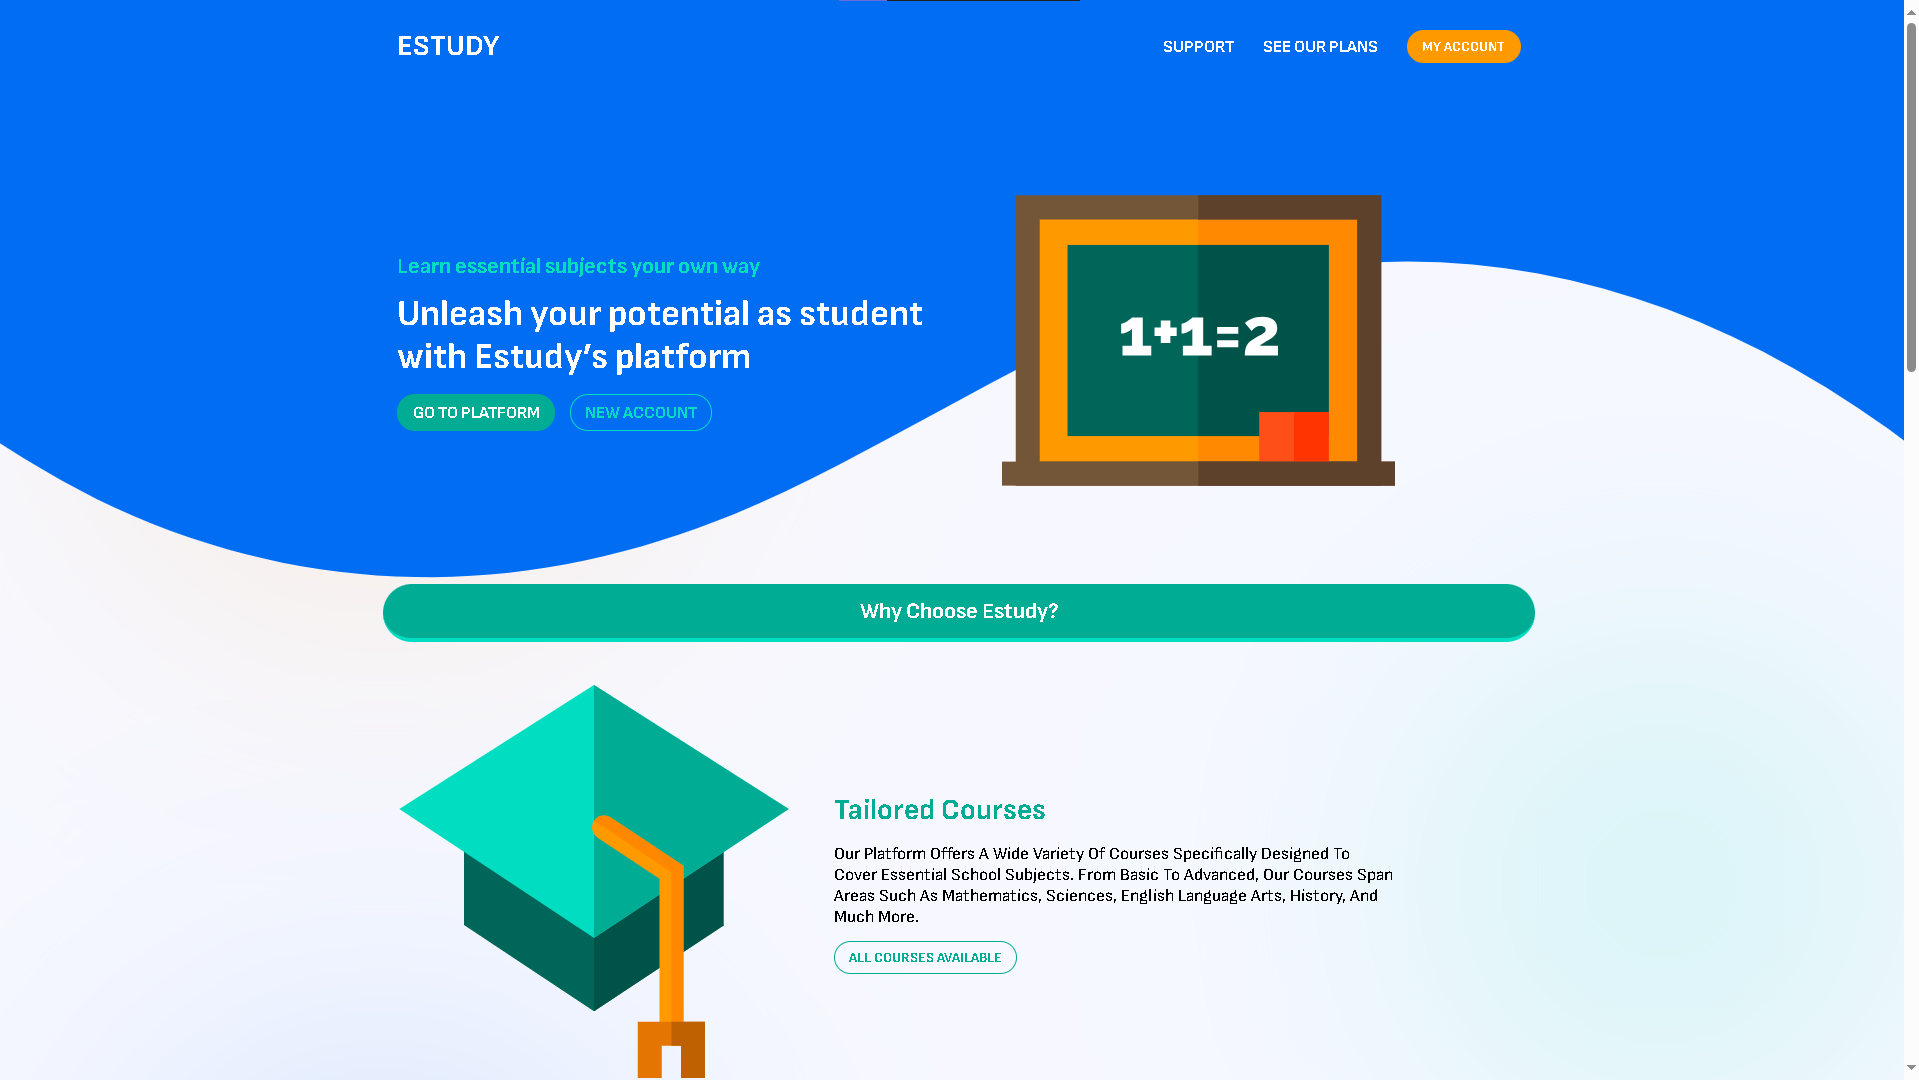
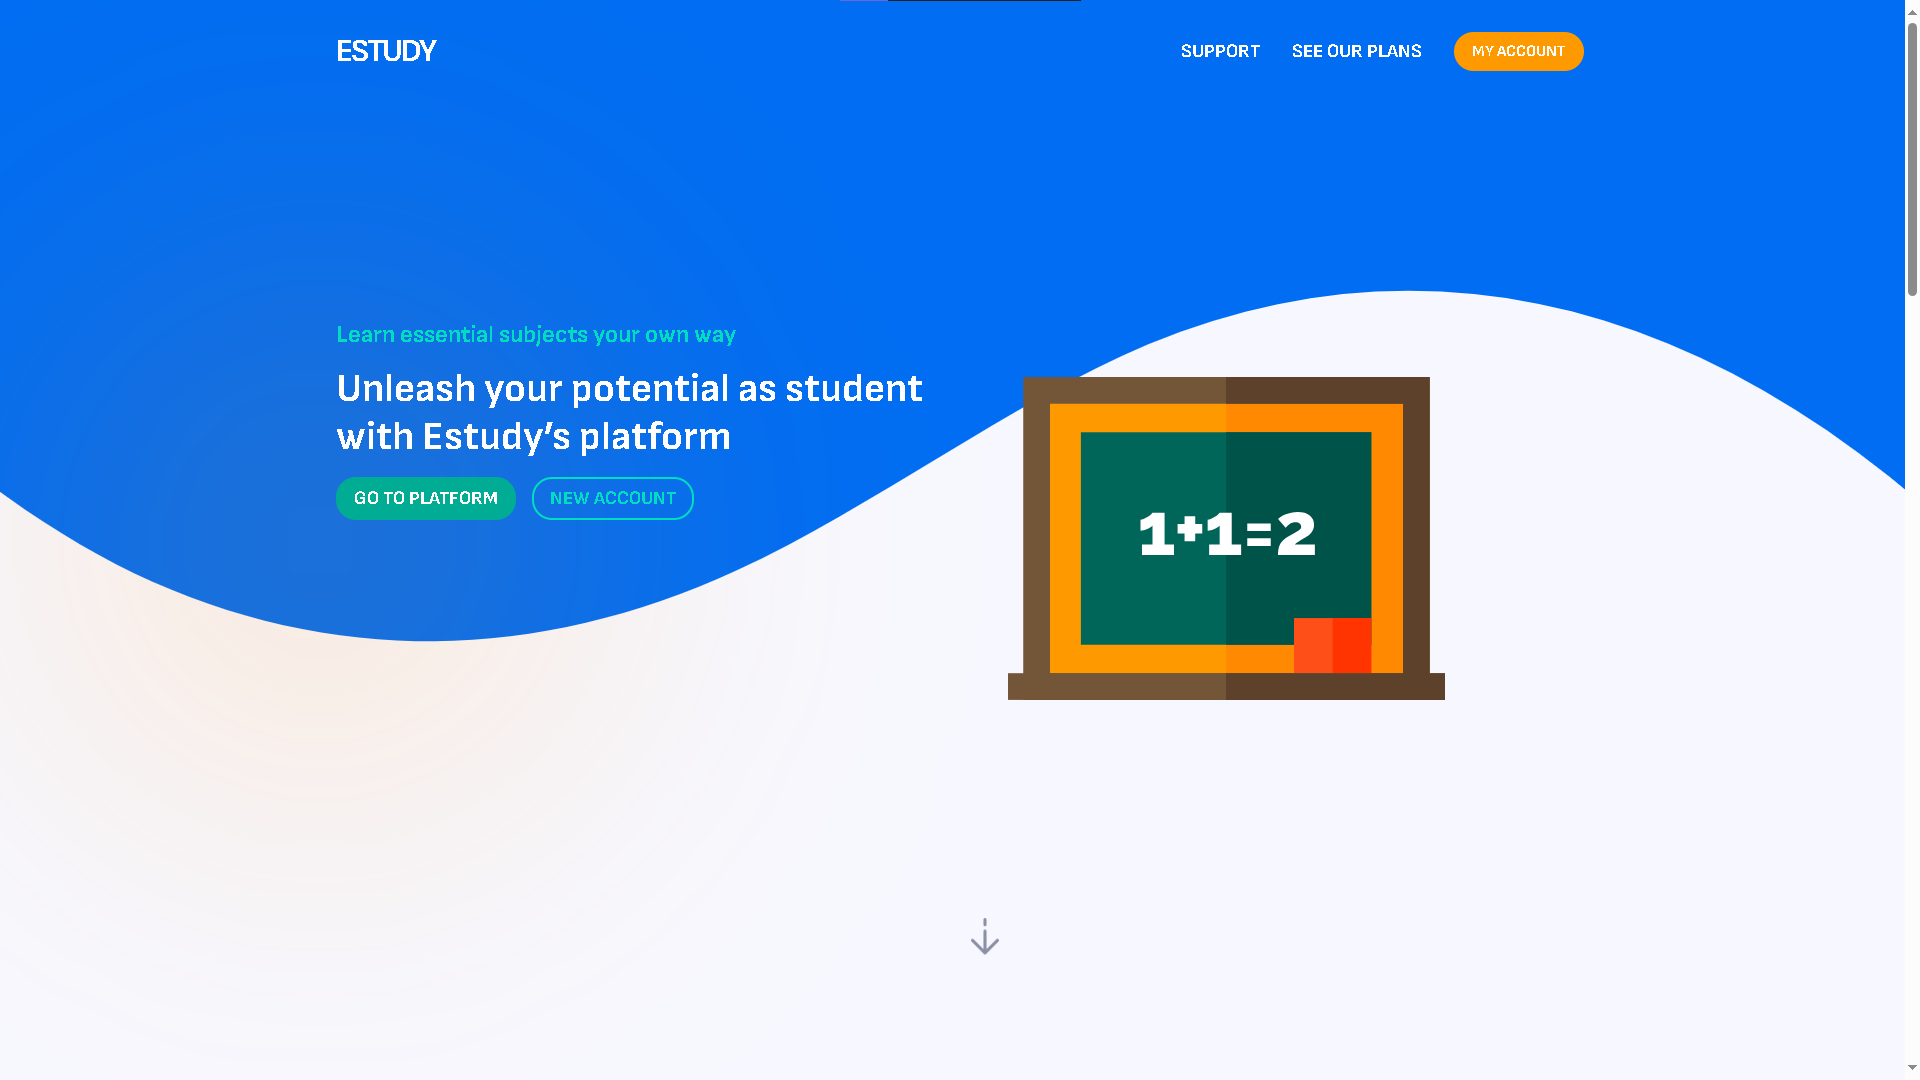
new changes on js css and html

diff --git a/styles/style.css b/styles/style.css
@@ -87,6 +87,7 @@ p {
 .h-container .logo {
   font-size: 2rem;
   text-transform: uppercase;
+  letter-spacing: -2px;
   font-weight: bold;
 }
 .h-btn {
@@ -95,7 +96,9 @@ p {
 }
 .hero {
   display: flex;
-  margin-top: -15rem;
+  align-items: start;
+  margin-top: -5rem;
+  margin-bottom: 20rem;
   gap: 3rem;
   position: relative;
 }
@@ -120,11 +123,25 @@ p {
 .hero .sec-text button {
   font-size: 1.2rem !important;
 }
+.hero .sec-text .hero-btn1:hover {
+  background-color: var(--green-1);
+}
 .hero .sec-text .hero-btn1 {
   background-color: var(--green-2);
   color: white;
 }
+.hero .sec-text .hero-btn2:hover {
+  background-size: 200%;
+}
 .hero .sec-text .hero-btn2 {
+  background-image: linear-gradient(
+    to right,
+    rgba(255, 255, 255, 0.178) 50%,
+    transparent 50%
+  );
+  background-size: 00%;
+  background-repeat: no-repeat;
+  transition: background-size 0.5s cubic-bezier(0.075, 0.82, 0.165, 1);
   border-color: var(--green-1);
   color: var(--green-1);
 }
@@ -134,6 +151,19 @@ p {
 .sec-image img {
   width: 100%;
   transition: transform 0.5s cubic-bezier(0.075, 0.82, 0.165, 1);
+}
+.hero-arrow {
+  position: absolute;
+  transform: translate(-50%, -50%);
+  top: 140%;
+  left: 50%;
+  animation-name: pulse;
+  animation-duration: 3s;
+  animation-iteration-count: infinite;
+}
+.hero-arrow img {
+  width: 50px;
+  height: 50px;
 }
 .hero::before {
   content: "";
@@ -176,11 +206,19 @@ p {
   color: var(--green-2);
 }
 .sec2 button {
+  background-image: linear-gradient(
+    to right,
+    var(--green-2) 50%,
+    transparent 50%
+  );
+  background-size: 0%;
+  background-repeat: no-repeat;
+  transition: background-size 0.5s cubic-bezier(0.075, 0.82, 0.165, 1);
   color: var(--green-2);
   border-color: var(--green-2);
 }
 .sec2 button:hover {
-  background-color: var(--green-2);
+  background-size: 200%;
 }
 .sec2::before {
   content: "";
@@ -200,11 +238,19 @@ p {
   color: var(--blue-2);
 }
 .sec3 button {
+  background-image: linear-gradient(
+    to right,
+    var(--blue-2) 50%,
+    transparent 50%
+  );
+  background-size: 0%;
+  background-repeat: no-repeat;
+  transition: background-size 0.5s cubic-bezier(0.075, 0.82, 0.165, 1);
   color: var(--blue-2);
   border-color: var(--blue-2);
 }
 .sec3 button:hover {
-  background-color: var(--blue-2);
+  background-size: 200%;
 }
 .sec3::before {
   content: "";
@@ -225,11 +271,19 @@ p {
   color: var(--orange-2);
 }
 .sec4 button {
+  background-image: linear-gradient(
+    to right,
+    var(--orange-2) 50%,
+    transparent 50%
+  );
+  background-size: 0%;
+  background-repeat: no-repeat;
+  transition: background-size 0.5s cubic-bezier(0.075, 0.82, 0.165, 1);
   color: var(--orange-2);
   border-color: var(--orange-2);
 }
 .sec4 button:hover {
-  background-color: var(--orange-2);
+  background-size: 200%;
 }
 .sec4::before {
   content: "";
@@ -295,8 +349,19 @@ p {
   z-index: 1;
 }
 .sec5 .card-text button {
-  border-color: white;
+  background-image: linear-gradient(
+    to right,
+    rgba(255, 255, 255, 0.3) 50%,
+    transparent 50%
+  );
+  background-size: 0%;
+  background-repeat: no-repeat;
+  transition: background-size 0.5s cubic-bezier(0.075, 0.82, 0.165, 1);
   color: white;
+  border-color: white;
+}
+.sec5 .card-text button:hover {
+  background-size: 200%;
 }
 .sec5::before {
   content: "";
@@ -420,7 +485,7 @@ p {
 .footer {
   width: 100vw;
   background-color: black;
-  margin-top: 5rem;
+  margin-top: 10rem;
   color: white;
   padding: 2rem 0;
 }
@@ -450,17 +515,30 @@ a {
 .custom-shape-divider-top-1706507705 .shape-fill {
   fill: var(--blue-1);
 }
-.slideL {
+.show.slideL,
+.show .slideL {
   animation-name: slideLeft;
   animation-duration: 1s;
   animation-iteration-count: 1;
   animation-direction: alternate;
 }
-.slideR {
+.show.slideR,
+.show .slideR {
   animation-name: slideRight;
   animation-duration: 1s;
   animation-iteration-count: 1;
   animation-direction: alternate;
+}
+.hidden {
+  opacity: 0;
+  transform: scale(90%);
+  filter: blur(10px) hue-rotate(30deg);
+  transition: opacity 0.5s ease, filter 0.4s ease, transform 0.5s ease;
+}
+.show {
+  opacity: 1;
+  filter: blur(0px) hue-rotate(0deg);
+  transform: scale(100%);
 }
 @keyframes slideLeft {
   from {
@@ -482,3 +560,19 @@ a {
     opacity: 1;
   }
 }
+@keyframes pulse {
+  from {
+    opacity: 0;
+    transform: translateY(calc(-50% + (-20px)));
+  }
+  to {
+    transform: translateY(-50%);
+    opacity: 0.5;
+  }
+}
+/* 
+@media (prefers-reduced-motion) {
+  .hidden {
+    transition: none;
+  }
+} */

diff --git a/index.html b/index.html
@@ -36,7 +36,7 @@
         </svg>
       </div>
     </header>
-    <section class="container hero">
+    <section class="container hero hidden">
       <div class="sec-text slideL">
         <h3>Learn essential subjects your own way</h3>
         <h1>Unleash your potential as student with Estudy’s platform</h1>
@@ -49,16 +49,19 @@
           </li>
         </ul>
       </div>
-      <div class="sec-image slideR">
+      <div class="sec-image">
         <img src="./assets/blackboard.svg" alt="" />
       </div>
+      <div class="hero-arrow">
+        <img src="assets/arrowdown.svg" alt="" />
+      </div>
     </section>
-    <div class="green title container"><h3>Why Choose Estudy?</h3></div>
-    <section class="container sec sec2 slideL">
+    <div class="green title container hidden"><h3>Why Choose Estudy?</h3></div>
+    <section class="container sec sec2 hidden">
       <div class="sec-image">
         <img src="./assets/mortarboard.svg" alt="" />
       </div>
-      <div class="sec-text">
+      <div class="sec-text slideR">
         <h2>Tailored Courses</h2>
         <p>
           Our platform offers a wide variety of courses specifically designed to
@@ -69,8 +72,8 @@
         <button class="btn hero-btn2">all courses available</button>
       </div>
     </section>
-    <section class="container sec sec3 slideR">
-      <div class="sec-text">
+    <section class="container sec sec3 hidden">
+      <div class="sec-text slideL">
         <h2>Unlimited Acess</h2>
         <p>
           Learning should not be confined by schedules. With Essential
@@ -83,11 +86,11 @@
         <img src="./assets/physics.svg" alt="" />
       </div>
     </section>
-    <section class="container sec sec4 slideL">
+    <section class="container sec sec4 hidden">
       <div class="sec-image">
         <img src="./assets/trophy.svg" alt="" />
       </div>
-      <div class="sec-text">
+      <div class="sec-text slideR">
         <h2>Specialized Instructors</h2>
         <p>
           Our courses are taught by experienced instructors specialized in each
@@ -98,8 +101,8 @@
       </div>
     </section>
 
-    <div class="blue title container"><h3>Some of our courses</h3></div>
-    <section class="container sec5">
+    <div class="blue title container hidden"><h3>Some of our courses</h3></div>
+    <section class="container sec5 hidden">
       <div class="card blue">
         <div class="card-image">
           <img src="assets/chemical.svg" alt="" />
@@ -145,9 +148,9 @@
         </div>
       </div>
     </section>
-    <div class="container title2"><h3>Invest In Future</h3></div>
-    <section class="container sec6">
-      <div class="content">
+    <div class="container title2 hidden"><h3>Invest In Future</h3></div>
+    <section class="container sec6 hidden">
+      <div class="content slideL">
         <h3>
           At Estudy, we believe that investing in education is investing in the
           future. We are committed to empowering students with the skills and
@@ -157,9 +160,9 @@
         <img src="assets/books.svg" alt="" />
       </div>
     </section>
-    <div class="container title2"><h3>Join Us</h3></div>
-    <section class="container sec7">
-      <div class="content">
+    <div class="container title2 hidden"><h3>Join Us</h3></div>
+    <section class="container sec7 hidden">
+      <div class="content slideR">
         <img src="assets/podium.svg" alt="" />
         <h3>
           Are you ready to take the next step in your educational journey? Join

diff --git a/scripts/script.js b/scripts/script.js
@@ -1,0 +1,14 @@
+const observer = new IntersectionObserver((entries) => {
+  entries.forEach((entry) => {
+    console.log(entry);
+    if (entry.isIntersecting) {
+      entry.target.classList.add("show");
+    } else {
+      entry.target.classList.remove("show");
+    }
+  });
+});
+
+const hiddenElements = document.querySelectorAll(".hidden");
+
+hiddenElements.forEach((el) => observer.observe(el));
